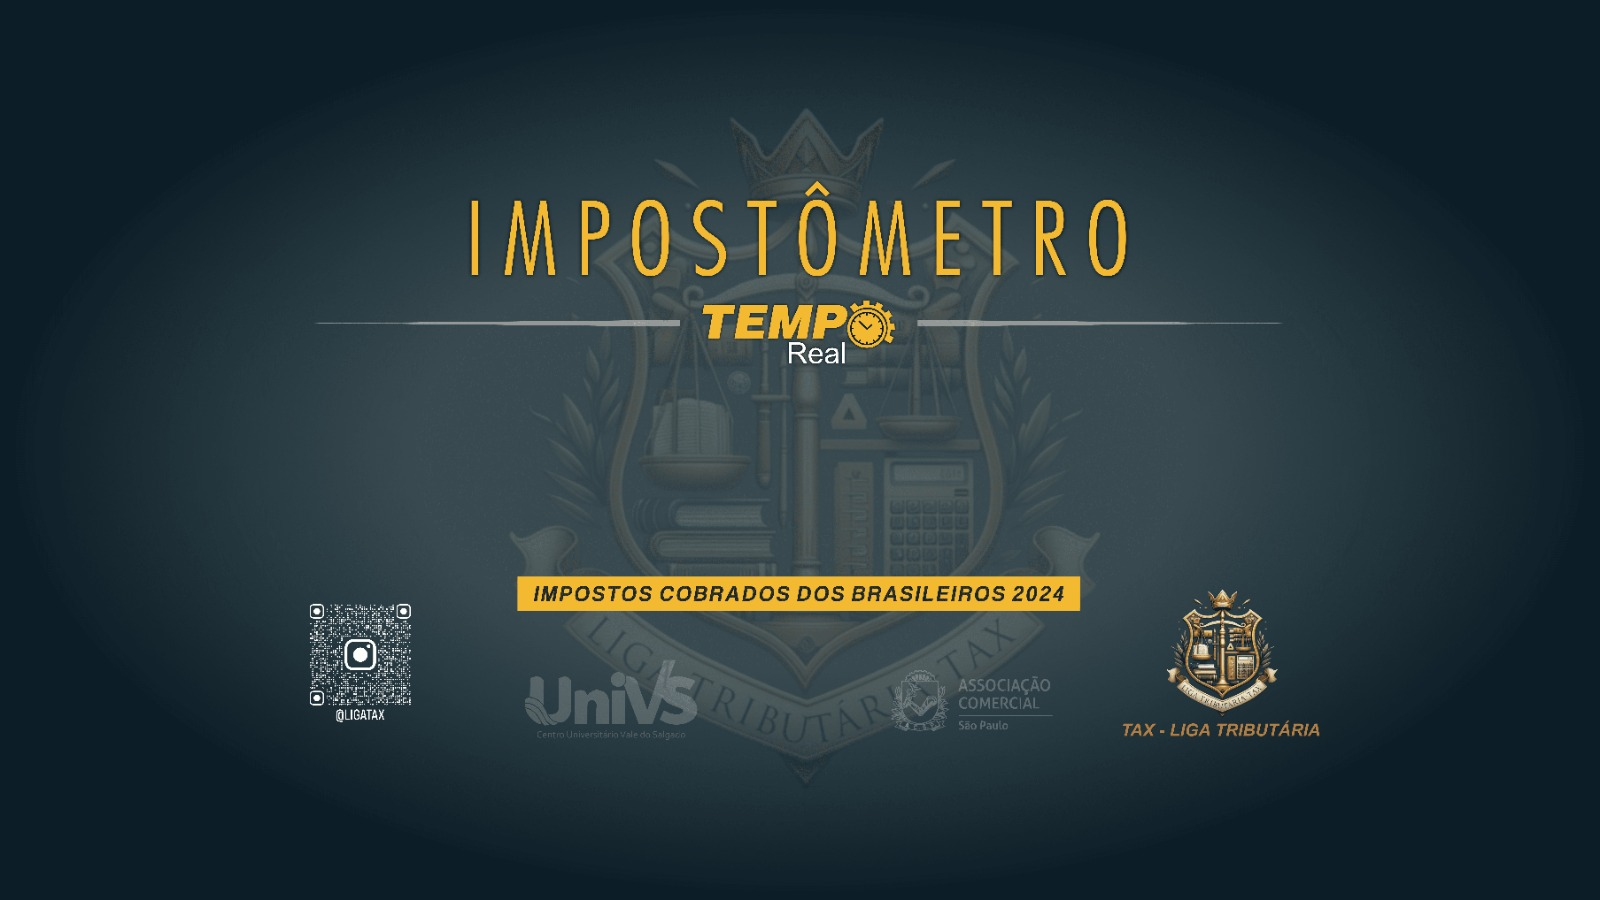
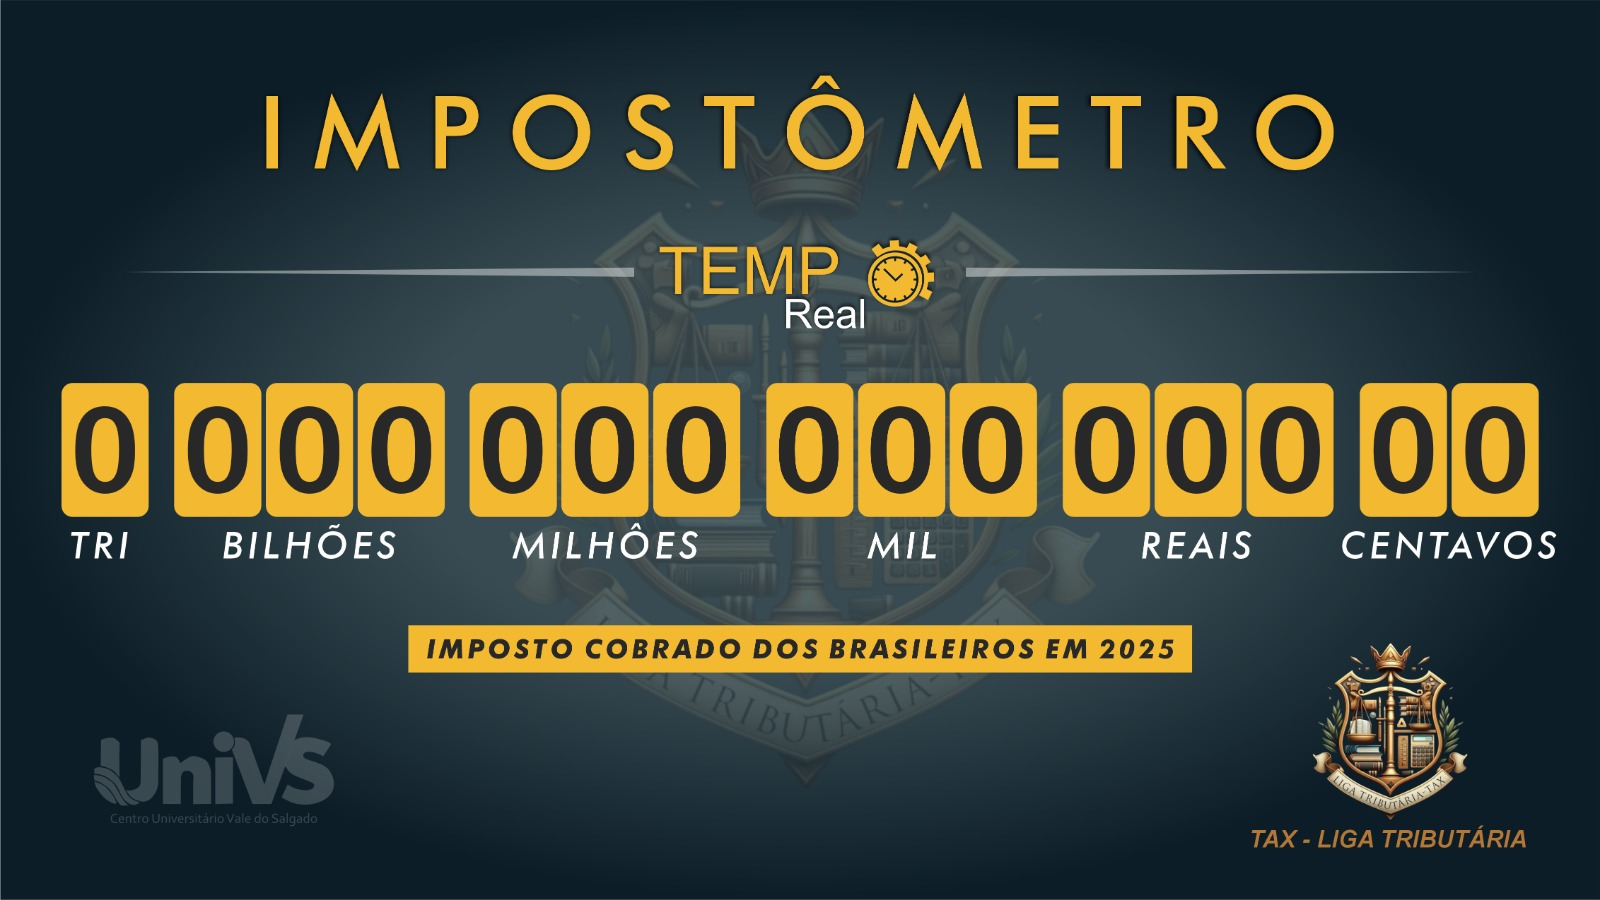
2025 update bg

Changed region(s): [[0.0312, 0.0622, 0.9688, 0.9644], [0.0, 0.9956, 1.0, 1.0]]

diff --git a/src/App.css b/src/App.css
@@ -7,7 +7,7 @@
   flex-direction: column;
   align-items: center;
   justify-content: center;
-  background-image: url("./bg.jpeg");
+  background-image: url("./bg.png");
   background-size: cover;
   background-repeat: no-repeat;
   background-position: center;
